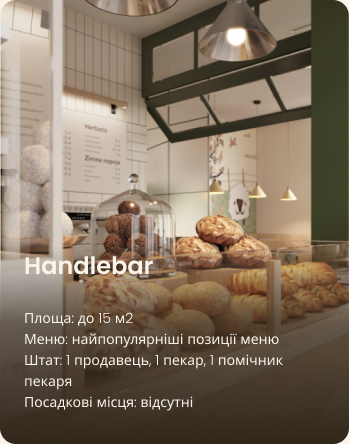
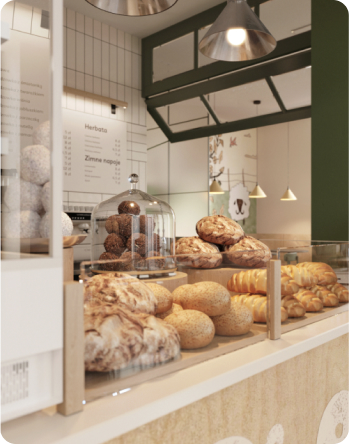
add images to formats-section

diff --git a/css/main.min.css b/css/main.min.css
@@ -1,1 +1,1 @@
-@font-face{font-display:swap;font-family:"Poppins";font-style:normal;font-weight:300;src:url("../fonts/poppins-v20-latin-300.woff2") format("woff2"),url("../fonts/poppins-v20-latin-300.woff") format("woff")}@font-face{font-display:swap;font-family:"Poppins";font-style:normal;font-weight:400;src:url("../fonts/poppins-v20-latin-regular.woff2") format("woff2"),url("../fonts/poppins-v20-latin-regular.woff") format("woff")}@font-face{font-display:swap;font-family:"Poppins";font-style:normal;font-weight:600;src:url("../fonts/poppins-v20-latin-600.woff2") format("woff2"),url("../fonts/poppins-v20-latin-600.woff") format("woff")}@font-face{font-display:swap;font-family:"Poppins";font-style:normal;font-weight:900;src:url("../fonts/poppins-v20-latin-900.woff2") format("woff2"),url("../fonts/poppins-v20-latin-900.woff") format("woff")}:root{--color-primary-light: #faf4ea;--color-primary-dark: #31261a;--color-brand-normal: #819b57;--color-brand-dark: #465929;--color-brand-light: #cfcfbc;--color-secondary-dark: #a28268}*,::before,::after{box-sizing:border-box}body{color:var(--color-primary-dark);background-color:var(--color-primary-light);font-family:"Poppins",sans-serif;font-size:18px;font-weight:400;line-height:1.5;margin:0}h1,h2,h3,h4,h5,h6,p{margin-top:0}a{display:inline-block}address{font-style:normal}ul{margin:0;padding:0;list-style-type:none}.visually-hidden{position:absolute;left:-10000px;top:auto;width:1px;height:1px;overflow:hidden}.section{padding:48px 0}.container{width:100%;max-width:1288px;margin:0 auto;padding:0 24px}.button{padding:16px 32px;color:var(--color-primary-light);background-color:var(--color-brand-normal);border-radius:8px;border:2px solid var(--color-brand-normal);cursor:pointer;font-weight:600}.button:hover{color:var(--color-brand-dark);background-color:rgba(0,0,0,0)}.header{position:absolute;top:0;left:0;width:100%;padding-top:32px}.header-container{display:flex;align-items:center;gap:40px}.header-nav{display:flex;align-items:center;flex-grow:1;gap:40px}.header-menu{display:flex;gap:64px;flex-grow:1;justify-content:center}.hero-section{padding:272px 0;background-image:linear-gradient(103deg, rgba(18, 18, 17, 0.78) 2.03%, rgba(18, 18, 17, 0.6) 58.46%, rgba(18, 18, 17, 0) 90.36%),url("../images/hero-section-backgrond.jpg");background-repeat:no-repeat;background-position:center top;background-size:cover}.hero-title{color:var(--color-primary-light);text-align:center;font-size:128px;font-weight:900;margin-bottom:0}.hero-title .accent{color:var(--color-brand-normal)}.link{color:var(--color-primary-light);text-decoration:none;transition:color .3s}.link:hover{color:var(--color-brand-normal);font-weight:600}.advantages-section{padding:16px 0;background-color:var(--color-brand-normal)}.advantages-list{display:flex;justify-content:space-between;gap:40px}.advantages-item{font-size:20px;font-weight:300;color:var(--color-primary-light)}.section-title{font-size:64px;font-weight:900;line-height:1.3}.section-title.centered{text-align:center}.section-title .accent{color:var(--color-brand-dark)}.traditions-section{padding-top:96px}.traditions-container{display:flex;justify-content:space-between;gap:40px}.traditions-content{max-width:710px}.traditions-title{margin-bottom:42px}.traditions-text .brand{color:var(--color-brand-normal);font-weight:600}.traditions-text .uppercase{text-transform:uppercase}.traditions-text.limited{max-width:330px}.chefs-title{position:relative;margin:0 auto 80px}.chef-text p{margin-bottom:24px}.chef-text p:last-child{margin-bottom:0}.chefs-title::after,.chefs-title::before{position:absolute;bottom:24px;width:352px;height:2px;background-color:var(--color-brand-light);content:""}.chefs-title::before{left:0}.chefs-title::after{right:0}.chefs-list{display:flex;gap:40px 30px;flex-wrap:wrap}.chefs-item{flex-basis:calc((100% - 30px)/2)}.chef-card{display:flex;gap:30px}.chef-photo{border-radius:4px 4px 4px 200px;box-shadow:-16px 16px 0 0 var(--color-primary-light),-16px 16px 0 2px var(--color-secondary-dark)}.chef-title{margin-bottom:16px;font-size:40px;font-weight:600}.formats-container{display:flex;gap:32px;align-items:center}.formats-list{display:flex;flex-wrap:wrap;gap:20px}.formats-item{flex-basis:calc((100% - 40px)/3)}.format-card{border:1px solid #d3d3d3;border-radius:16px;padding:24px;height:444px;background-image:linear-gradient(180deg, rgba(49, 38, 26, 0) 55.21%, rgba(49, 38, 26, 0.71) 72.92%, var(--color-primary-dark) 100%);transition:transform .3s}.format-card:hover{transform:scale(1.05)}.formats-title{margin-bottom:80px}.format-title{font-size:24px;font-weight:600}.format-text{font-size:14px;font-weight:300}.carousel-button{display:flex;align-items:center;justify-content:center;flex-shrink:0;width:44px;height:44px;padding:0;fill:var(--color-primary-dark);background-color:rgba(0,0,0,0);border-radius:50%;border:1px solid var(--color-primary-dark);cursor:pointer}.carousel-button:hover{background-color:var(--color-primary-dark);fill:var(--color-primary-light)}.carousel-button.next{transform:rotate(180deg)}.contact-section{padding-bottom:96px}.contact-container{display:flex;gap:32px}.contact-title{margin-bottom:16px}.contact-map{flex-shrink:0;border:none;border-radius:16px}.footer{padding:32px 0;position:relative;background-image:url("../images/footer-background.png");background-color:var(--color-primary-dark);background-repeat:no-repeat;background-position:center;background-size:cover}.footer::before,.footer::after{position:absolute;bottom:0;background-repeat:no-repeat;content:""}.footer::before{left:0;width:180px;height:120px;background-image:url("../images/decor-bread-small.png")}.footer::after{right:0;width:380px;height:190px;background-image:url("../images/decor-bread-large.png")}.footer-container{display:flex;gap:20px}.footer-nav,.footer-address{display:flex;flex-basis:50%;gap:20px}.footer-logo,.footer-menu{flex-grow:1}.address-list,.address-info{flex-grow:1}.address-link{color:var(--color-primary-light);font-size:16px;font-weight:300;text-decoration:none}.address-link:hover{color:var(--color-brand-normal)}.address-icon{fill:var(--color-primary-light)}.address-icon:hover{fill:var(--color-brand-normal)}.address-copyright{font-size:14px}.backdrop{position:fixed;top:0;right:0;bottom:0;left:0;display:flex;justify-content:center;align-items:center;background-color:rgba(0,0,0,.5);padding:20px 0;transition:opacity .3s,visibility .3s}.modal{position:relative;width:100%;max-width:880px;height:100%;max-height:880px;background-color:var(--color-primary-light);border-radius:32px;padding:128px;overflow-y:auto}.backdrop.is-hidden{opacity:0;visibility:hidden;pointer-events:none}.modal-btn-close{position:absolute;top:40px;right:40px}.form-field{margin-bottom:32px}.form-label{display:block}.form-input{padding:16px 42px;width:100%;border:1px solid var(--color-secondary-dark);border-radius:8px;background-color:rgba(0,0,0,0);font-size:16px;line-height:1.17}.form-input:focus{border-color:var(--color-brand-normal);outline:none}.form-input::-moz-placeholder{color:var(--color-secondary-dark);font-size:16px;line-height:1.17}.form-input::placeholder{color:var(--color-secondary-dark);font-size:16px;line-height:1.17}.form-input:focus::-moz-placeholder{color:var(--color-primary-dark)}.form-input:focus::placeholder{color:var(--color-primary-dark)}.form-button{display:block;margin:0 auto 24px}.form-terms{margin:0 auto;max-width:220px;font-weight:500;font-size:12px;line-height:1.5;text-align:center}.form-terms-link{color:var(--color-primary-dark);text-underline-offset:2px}/*# sourceMappingURL=main.min.css.map */
+@font-face{font-display:swap;font-family:"Poppins";font-style:normal;font-weight:300;src:url("../fonts/poppins-v20-latin-300.woff2") format("woff2"),url("../fonts/poppins-v20-latin-300.woff") format("woff")}@font-face{font-display:swap;font-family:"Poppins";font-style:normal;font-weight:400;src:url("../fonts/poppins-v20-latin-regular.woff2") format("woff2"),url("../fonts/poppins-v20-latin-regular.woff") format("woff")}@font-face{font-display:swap;font-family:"Poppins";font-style:normal;font-weight:600;src:url("../fonts/poppins-v20-latin-600.woff2") format("woff2"),url("../fonts/poppins-v20-latin-600.woff") format("woff")}@font-face{font-display:swap;font-family:"Poppins";font-style:normal;font-weight:900;src:url("../fonts/poppins-v20-latin-900.woff2") format("woff2"),url("../fonts/poppins-v20-latin-900.woff") format("woff")}:root{--color-primary-light: #faf4ea;--color-primary-dark: #31261a;--color-brand-normal: #819b57;--color-brand-dark: #465929;--color-brand-light: #cfcfbc;--color-secondary-dark: #a28268}*,::before,::after{box-sizing:border-box}body{color:var(--color-primary-dark);background-color:var(--color-primary-light);font-family:"Poppins",sans-serif;font-size:18px;font-weight:400;line-height:1.5;margin:0}h1,h2,h3,h4,h5,h6,p{margin-top:0}a{display:inline-block}address{font-style:normal}ul{margin:0;padding:0;list-style-type:none}.visually-hidden{position:absolute;left:-10000px;top:auto;width:1px;height:1px;overflow:hidden}.section{padding:48px 0}.section-title{font-size:64px;font-weight:900;line-height:1.3}.section-title.centered{text-align:center}.section-title .accent{color:var(--color-brand-dark)}.container{width:100%;max-width:1288px;margin:0 auto;padding:0 24px}.button{padding:16px 32px;color:var(--color-primary-light);background-color:var(--color-brand-normal);border-radius:8px;border:2px solid var(--color-brand-normal);cursor:pointer;font-weight:600}.button:hover{color:var(--color-brand-dark);background-color:rgba(0,0,0,0)}.header{position:absolute;top:0;left:0;width:100%;padding-top:32px}.header-container{display:flex;align-items:center;gap:40px}.header-nav{display:flex;align-items:center;flex-grow:1;gap:40px}.header-menu{display:flex;gap:64px;flex-grow:1;justify-content:center}.hero-section{padding:272px 0;background-image:linear-gradient(103deg, rgba(18, 18, 17, 0.78) 2.03%, rgba(18, 18, 17, 0.6) 58.46%, rgba(18, 18, 17, 0) 90.36%),url("../images/hero-section-backgrond.jpg");background-repeat:no-repeat;background-position:center top;background-size:cover}.hero-title{color:var(--color-primary-light);text-align:center;font-size:128px;font-weight:900;margin-bottom:0}.hero-title .accent{color:var(--color-brand-normal)}.link{color:var(--color-primary-light);text-decoration:none;transition:color .3s}.link:hover{color:var(--color-brand-normal);font-weight:600}.advantages-section{padding:16px 0;background-color:var(--color-brand-normal)}.advantages-list{display:flex;justify-content:space-between;gap:40px}.advantages-item{font-size:20px;font-weight:300;color:var(--color-primary-light)}.traditions-section{padding-top:96px}.traditions-container{display:flex;justify-content:space-between;gap:40px}.traditions-content{max-width:710px}.traditions-title{margin-bottom:42px}.traditions-text .brand{color:var(--color-brand-normal);font-weight:600}.traditions-text .uppercase{text-transform:uppercase}.traditions-text.limited{max-width:330px}.chefs-title{position:relative;margin:0 auto 80px}.chef-text p{margin-bottom:24px}.chef-text p:last-child{margin-bottom:0}.chefs-title::after,.chefs-title::before{position:absolute;bottom:24px;width:352px;height:2px;background-color:var(--color-brand-light);content:""}.chefs-title::before{left:0}.chefs-title::after{right:0}.chefs-list{display:flex;gap:40px 30px;flex-wrap:wrap}.chefs-item{flex-basis:calc((100% - 30px)/2)}.chef-card{display:flex;gap:30px}.chef-photo{border-radius:4px 4px 4px 200px;box-shadow:-16px 16px 0 0 var(--color-primary-light),-16px 16px 0 2px var(--color-secondary-dark)}.chef-title{margin-bottom:16px;font-size:40px;font-weight:600}.formats-container{display:flex;gap:32px;align-items:center}.formats-list{display:flex;flex-wrap:wrap;gap:20px}.formats-item{flex-basis:calc((100% - 40px)/3)}.format-card{position:relative;display:flex;flex-direction:column;justify-content:flex-end;border-radius:16px;padding:24px;height:444px;background-image:linear-gradient(180deg, rgba(49, 38, 26, 0) 55.21%, rgba(49, 38, 26, 0.71) 72.92%, var(--color-primary-dark) 100%);transition:transform .3s}.format-card:hover{transform:scale(1.05)}.format-image{position:absolute;z-index:-1;top:0;left:0;width:100%;height:100%}.formats-title{margin-bottom:80px}.format-title{font-size:24px;font-weight:600;color:var(--color-primary-light)}.format-text{font-size:14px;font-weight:300;color:var(--color-primary-light)}.carousel-button{display:flex;align-items:center;justify-content:center;flex-shrink:0;width:44px;height:44px;padding:0;fill:var(--color-primary-dark);background-color:rgba(0,0,0,0);border-radius:50%;border:1px solid var(--color-primary-dark);cursor:pointer}.carousel-button:hover{background-color:var(--color-primary-dark);fill:var(--color-primary-light)}.carousel-button.next{transform:rotate(180deg)}.contact-section{padding-bottom:96px}.contact-container{display:flex;gap:32px}.contact-title{margin-bottom:16px}.contact-map{flex-shrink:0;border:none;border-radius:16px}.footer{padding:32px 0;position:relative;background-image:url("../images/footer-background.png");background-color:var(--color-primary-dark);background-repeat:no-repeat;background-position:center;background-size:cover}.footer::before,.footer::after{position:absolute;bottom:0;background-repeat:no-repeat;content:""}.footer::before{left:0;width:180px;height:120px;background-image:url("../images/decor-bread-small.png")}.footer::after{right:0;width:380px;height:190px;background-image:url("../images/decor-bread-large.png")}.footer-container{display:flex;gap:20px}.footer-nav,.footer-address{display:flex;flex-basis:50%;gap:20px}.footer-logo,.footer-menu{flex-grow:1}.address-list,.address-info{flex-grow:1}.address-link{color:var(--color-primary-light);font-size:16px;font-weight:300;text-decoration:none}.address-link:hover{color:var(--color-brand-normal)}.address-icon{fill:var(--color-primary-light)}.address-icon:hover{fill:var(--color-brand-normal)}.address-copyright{font-size:14px}.backdrop{position:fixed;top:0;right:0;bottom:0;left:0;display:flex;justify-content:center;align-items:center;background-color:rgba(0,0,0,.5);padding:20px 0;transition:opacity .3s,visibility .3s}.modal{position:relative;width:100%;max-width:880px;height:100%;max-height:880px;background-color:var(--color-primary-light);border-radius:32px;padding:128px;overflow-y:auto}.backdrop.is-hidden{opacity:0;visibility:hidden;pointer-events:none}.modal-btn-close{position:absolute;top:40px;right:40px}.form-field{margin-bottom:32px}.form-label{display:block}.form-input{padding:16px 42px;width:100%;border:1px solid var(--color-secondary-dark);border-radius:8px;background-color:rgba(0,0,0,0);font-size:16px;line-height:1.17}.form-input:focus{border-color:var(--color-brand-normal);outline:none}.form-input::-moz-placeholder{color:var(--color-secondary-dark);font-size:16px;line-height:1.17}.form-input::placeholder{color:var(--color-secondary-dark);font-size:16px;line-height:1.17}.form-input:focus::-moz-placeholder{color:var(--color-primary-dark)}.form-input:focus::placeholder{color:var(--color-primary-dark)}.form-button{display:block;margin:0 auto 24px}.form-terms{margin:0 auto;max-width:220px;font-weight:500;font-size:12px;line-height:1.5;text-align:center}.form-terms-link{color:var(--color-primary-dark);text-underline-offset:2px}/*# sourceMappingURL=main.min.css.map */

diff --git a/index.html b/index.html
@@ -136,11 +136,11 @@
             <ul class="formats-list">
               <li class="formats-item">
                 <article class="format-card">
-                  <!-- <img
+                  <img
                     class="format-image"
                     src="./images/walrus-format.jpg"
                     alt="Walrus-format"
-                  /> -->
+                  />
                   <h3 class="format-title" lang="en">Walrus</h3>
                   <div class="format-text">
                     <p>Площа: до 120 м2</p>
@@ -155,11 +155,11 @@
               </li>
               <li class="formats-item">
                 <article class="format-card">
-                  <!-- <img
+                  <img
                     class="format-image"
                     src="./images/horseshoe-format.jpg"
                     alt="Horseshoe-format"
-                  /> -->
+                  />
                   <h3 class="format-title" lang="en">Horseshoe</h3>
                   <div class="format-text">
                     <p>Площа: до 25 м2</p>
@@ -171,11 +171,11 @@
               </li>
               <li class="formats-item">
                 <article class="format-card">
-                  <!-- <img
+                  <img
                     class="format-image"
                     src="./images/handlebar-format.jpg"
                     alt="Handlebar-format"
-                  /> -->
+                  />
                   <h3 class="format-title" lang="en">Handlebar</h3>
                   <div class="format-text">
                     <p>Площа: до 15 м2</p>
